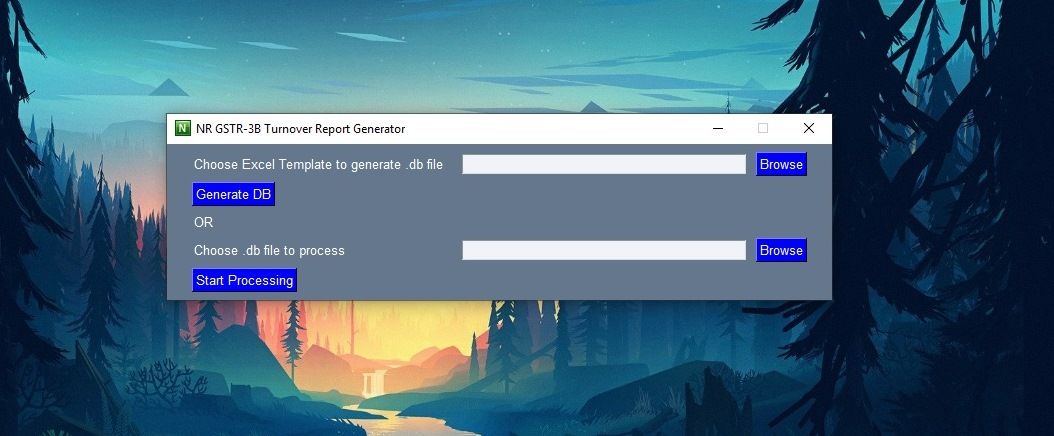
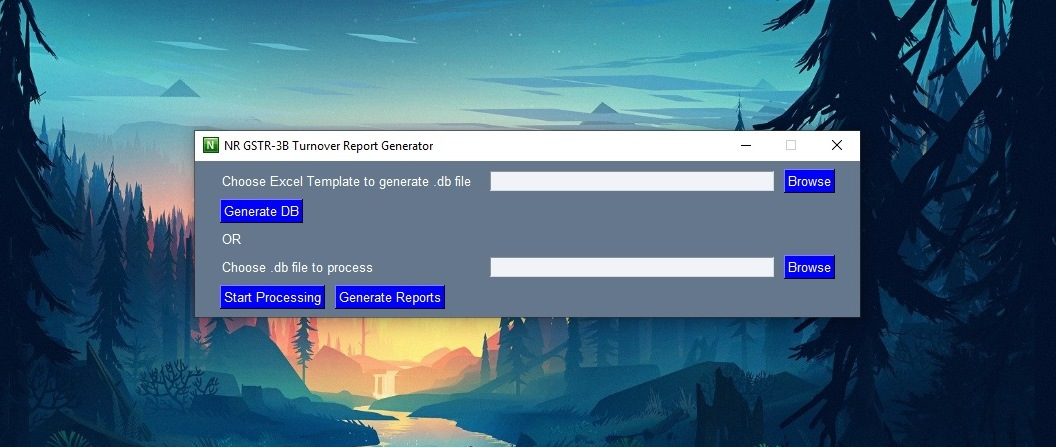
README.md file updated for Report generation feature along with screenshot for updated window

diff --git a/README.md b/README.md
@@ -29,4 +29,6 @@ If you select excel file in second time or later all previous data stored in dat
 
 9. Checkout gstr3b data csv file which has all month sales data for all clients given in template when you processed it for the first time.
 
+10. Though once all client data got saved csv reports are automatically gets generated but if you wish to generate it manually then select database file and press Generate Reports button.
+
 *chromedriver matching with your pc's chrome is required in NR GST Auto folder. You can check your chrome version by going to Help > About google chrome. You can download chromedriver from this [link](https://chromedriver.chromium.org/downloads)
